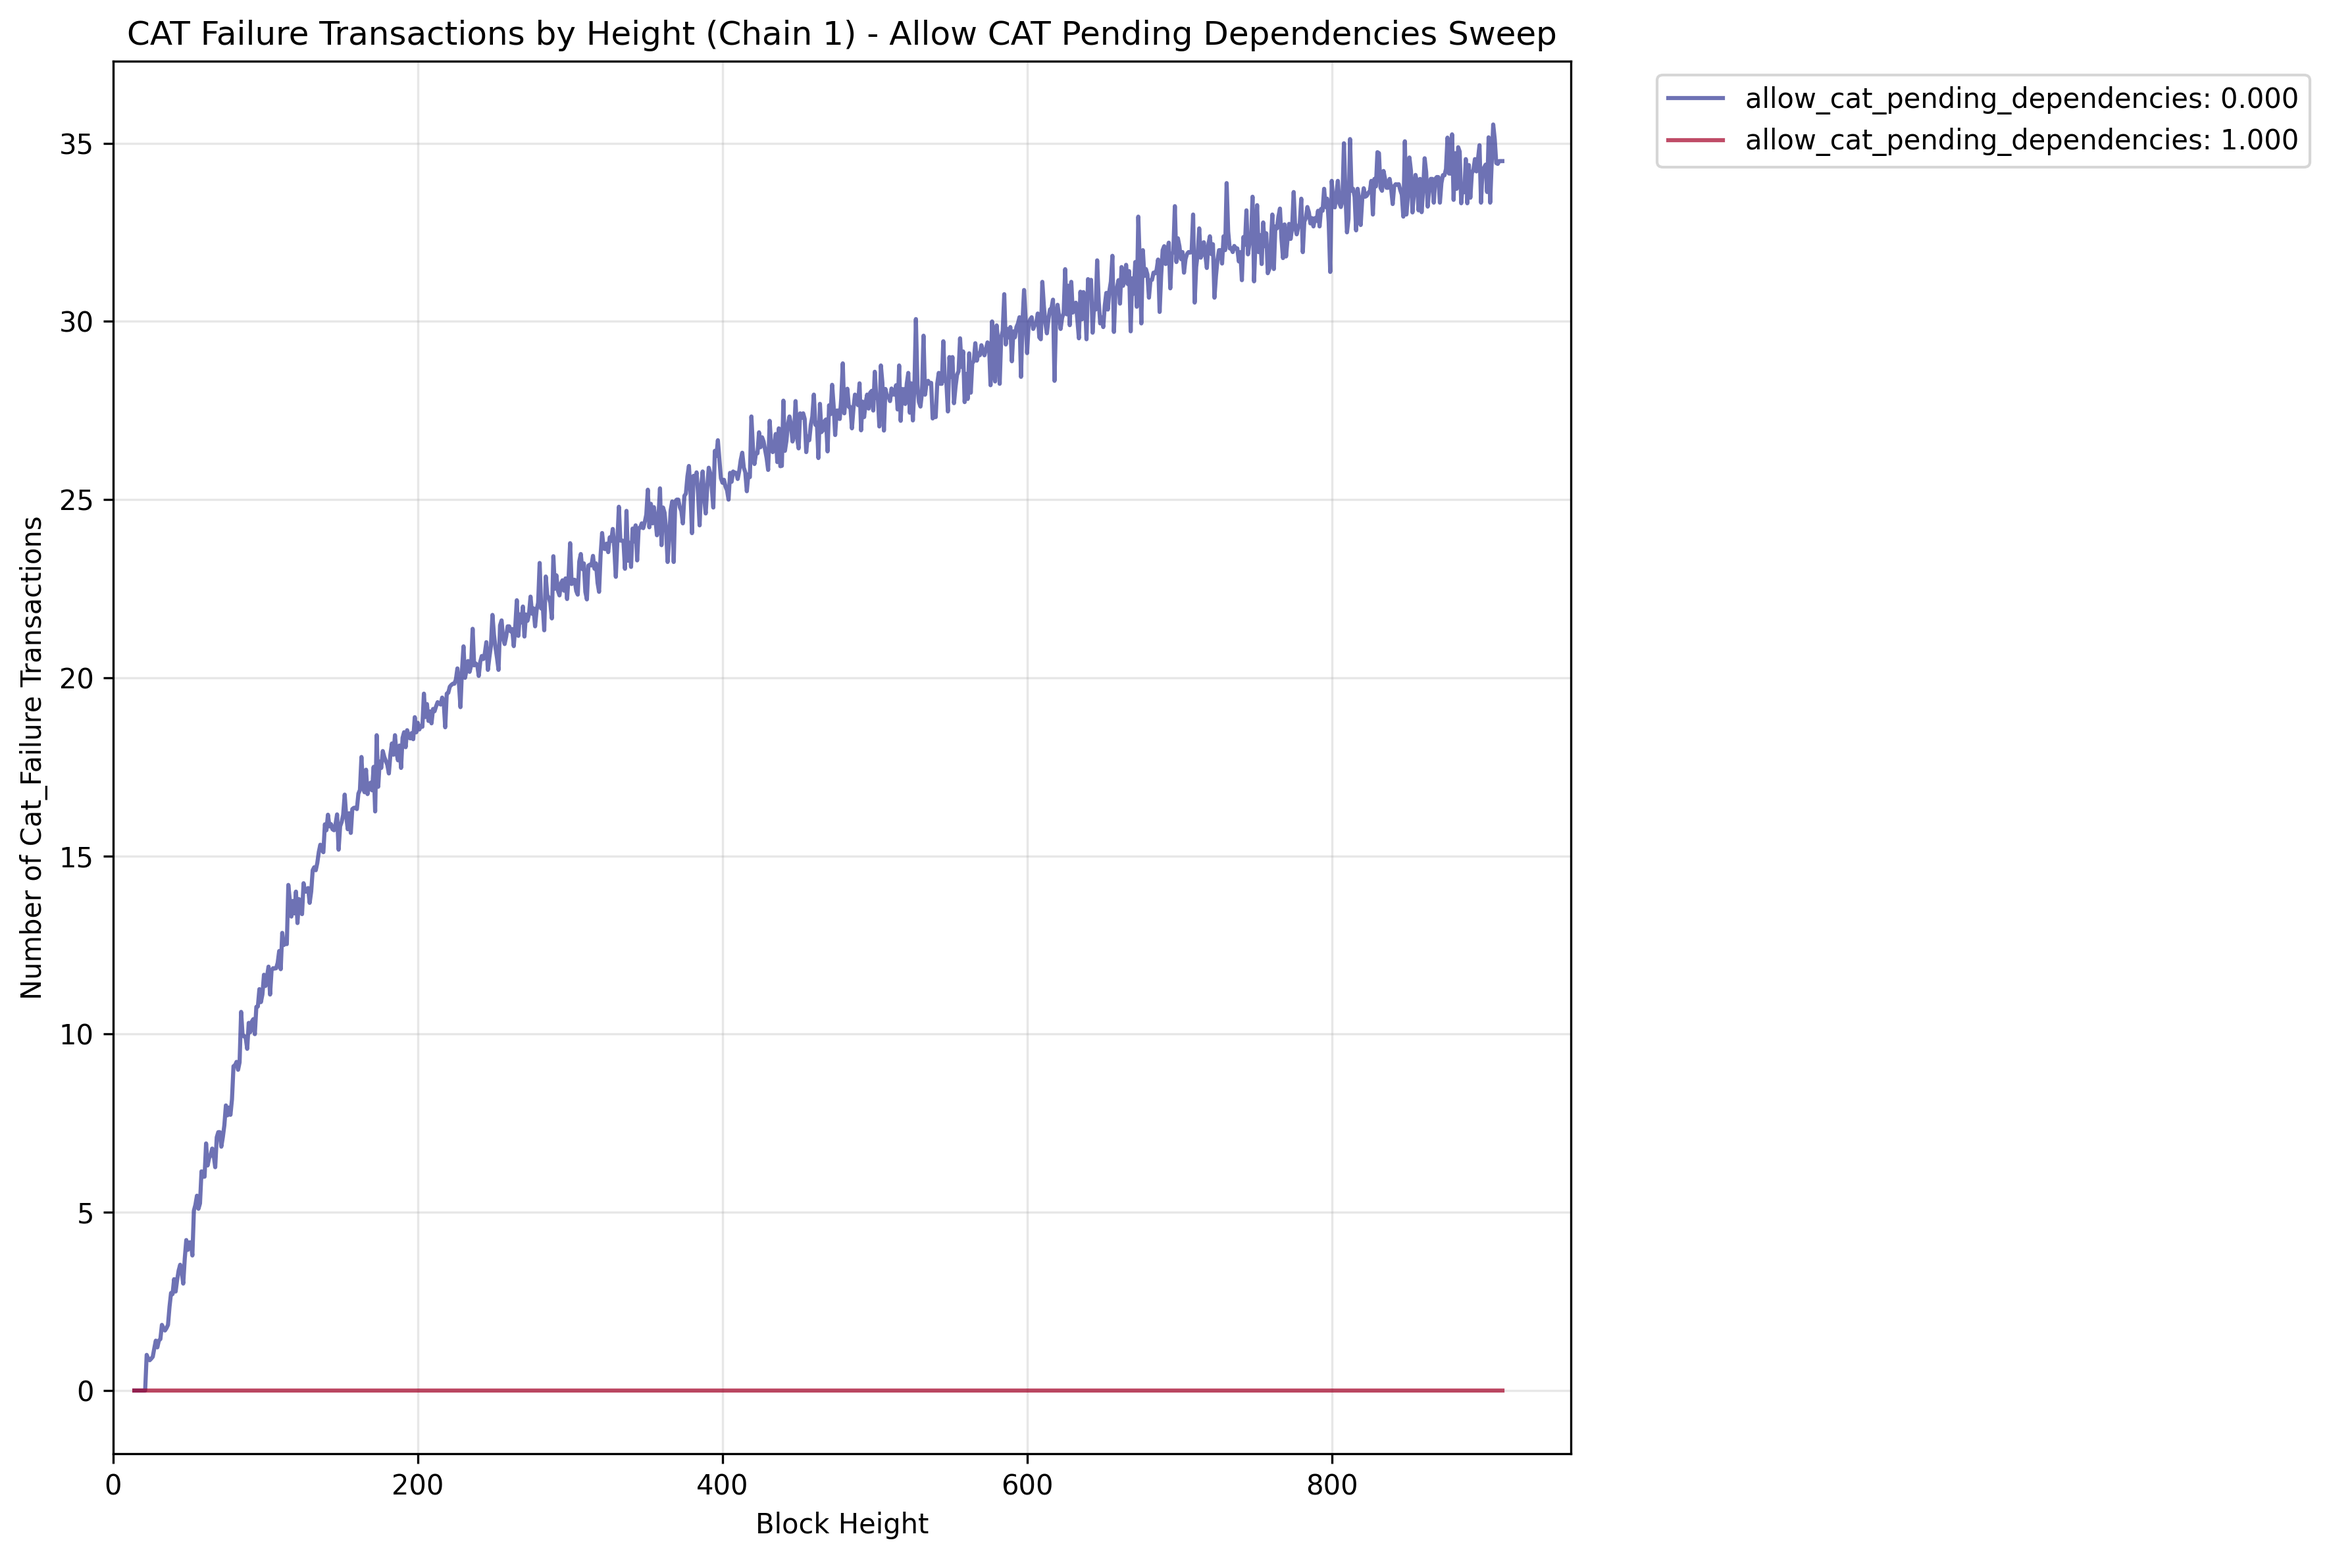
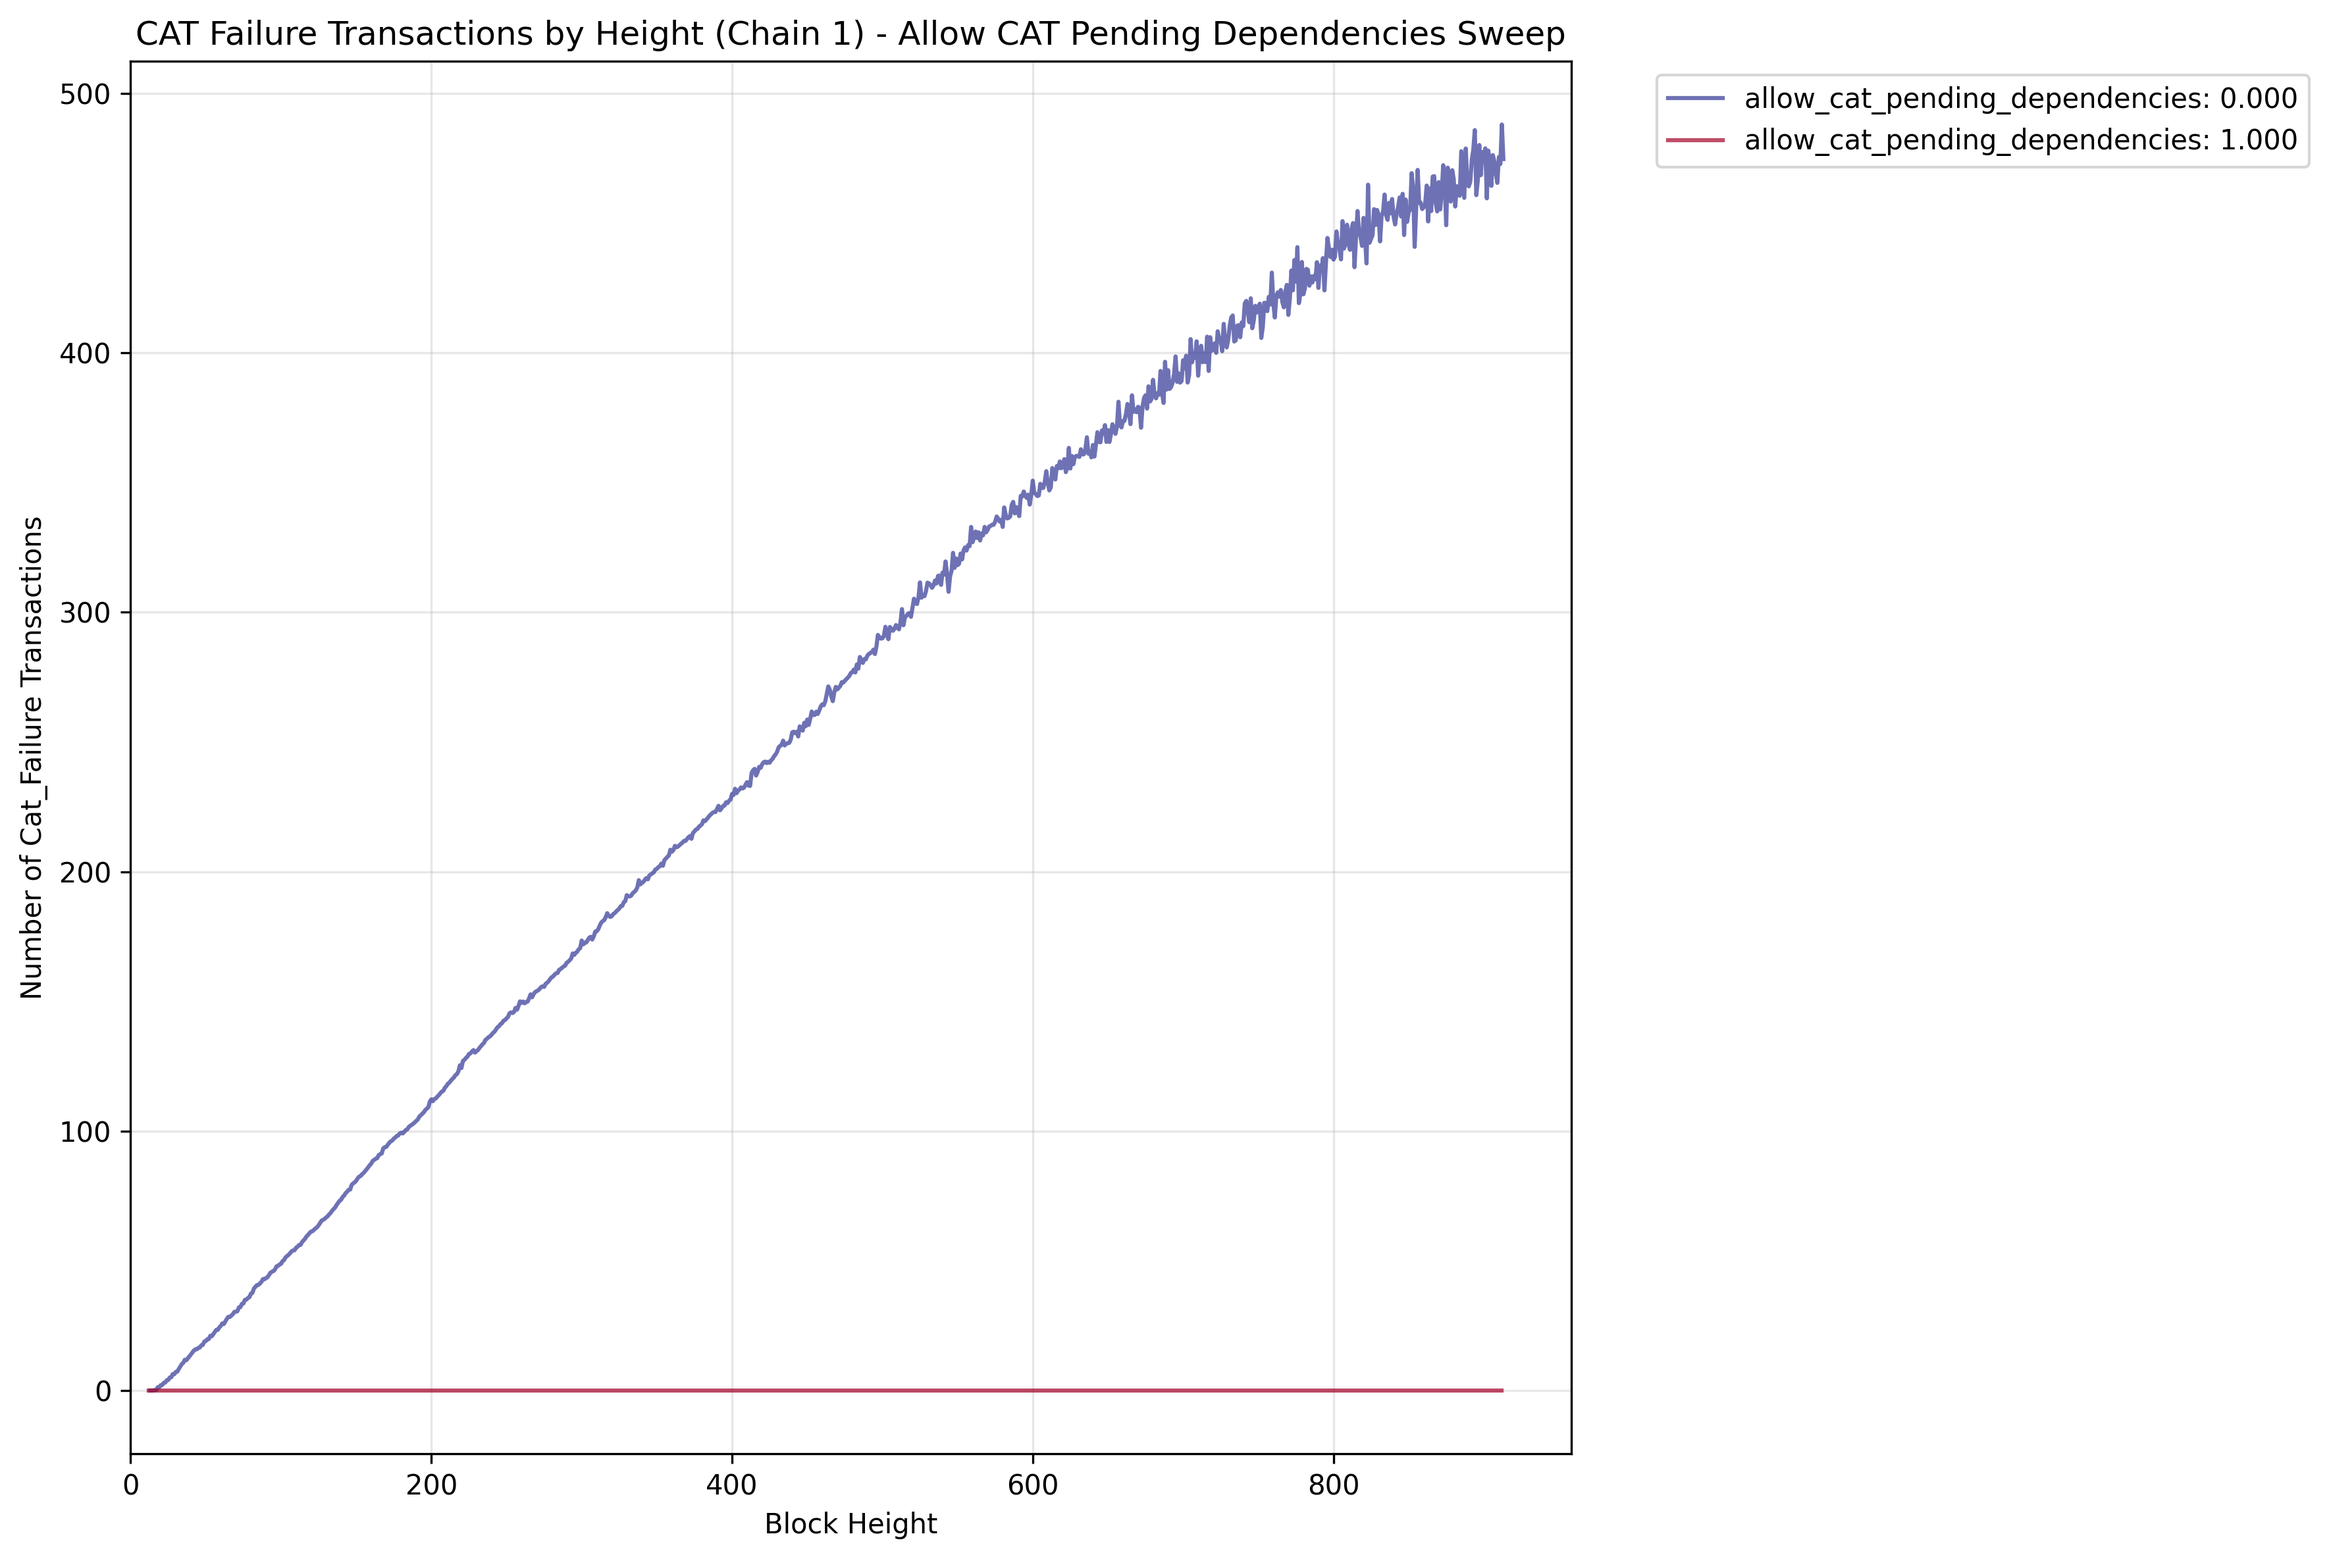
update readme of CAT pending dependencies sweep

diff --git a/simulator/src/scenarios/sim_sweep_cat_pending_dependencies/README.md b/simulator/src/scenarios/sim_sweep_cat_pending_dependencies/README.md
@@ -13,10 +13,14 @@ It tests exactly two values to understand the impact of CAT transaction restrict
 
 ## Results
 
-We can see that the CAT failures are much higher for the case where we do not allow dependencies (`allow_cat_pending_dependencies = false`). However, the number of pending regular transactions is much more stable when dependencies are restricted, suggesting reduced contention in the system.
+We can see that the CAT failures are much higher for the case where we do not allow dependencies (`allow_cat_pending_dependencies = false`). In contrast for the case where we do allow dependencies, CATs can only fail due to exceeding the CAT lifetime. 
 
 ![Failed CATs](./tx_failure_cat.png)
 
+The number of pending regular transactions is insignificant, when dependencies are restricted, suggesting reduced contention in the system. In contrast, when dependencies are allowed, the number of pending regular transactions is continuously increasing, as CATs are queued up (i.e. are pending) before the regular transactions.
+
+Finally, the simulation is becoming instable as the number of pending regular transactions becomes too high.
+
 ![Pending Regular Transactions](./tx_pending_regular.png)
 
-**Figure Parameters:** CAT pending dependencies sweep (false/true), block interval=0.02s, TPS=500.0, 2 chains (delay of second chain 5 blocks), 10% CAT ratio, CAT lifetime=1000 blocks, 1000 accounts, 20 runs averaged.
+**Figure Parameters:** CAT pending dependencies sweep (false/true), block interval=0.05s, TPS=500.0, 2 chains (delay of second chain 5 blocks), 10% CAT ratio, CAT lifetime=1000 blocks, 1000 accounts, 20 runs averaged.
